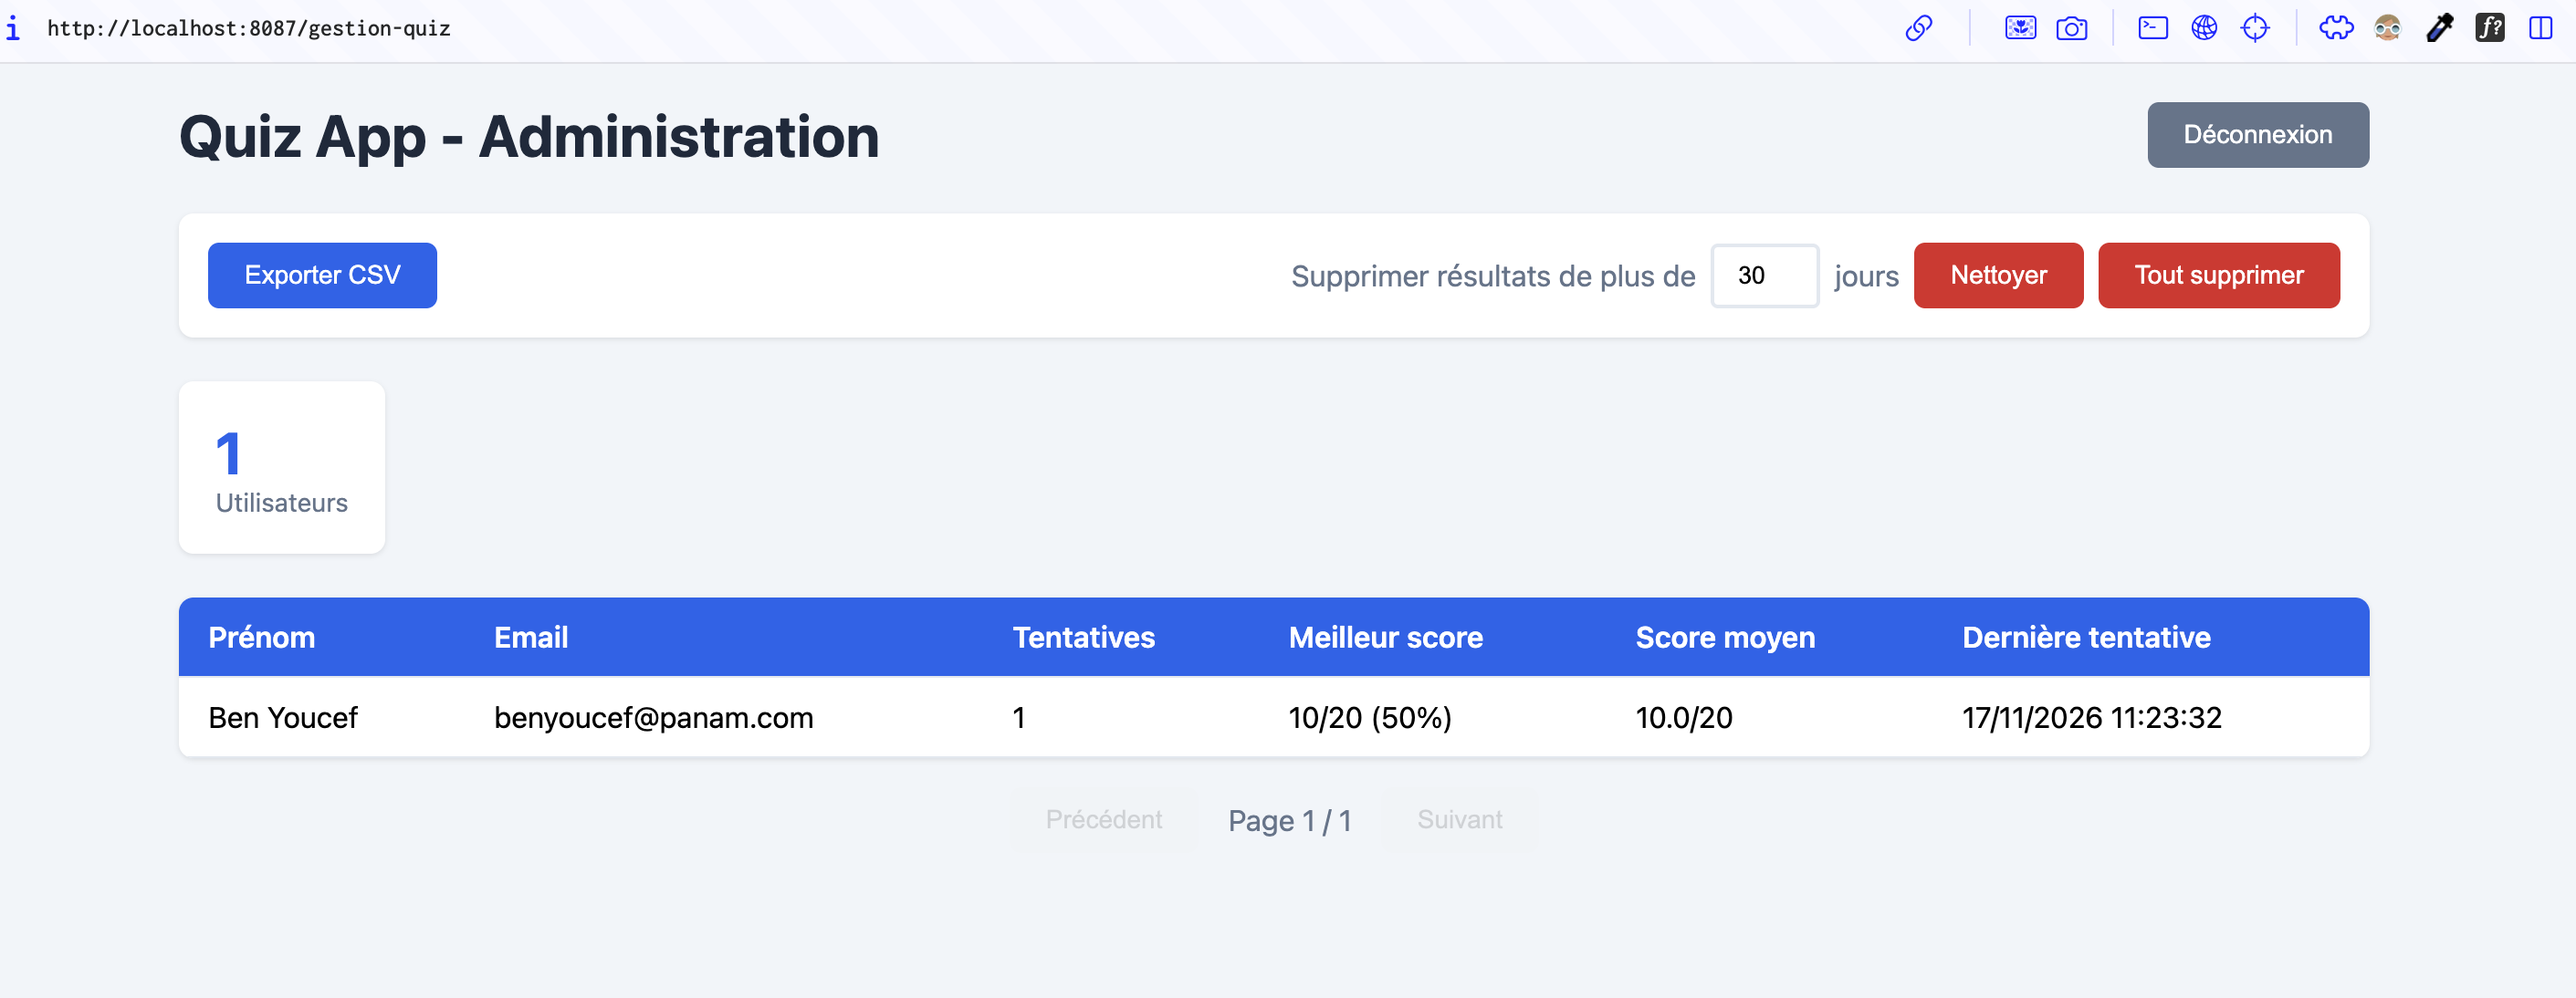
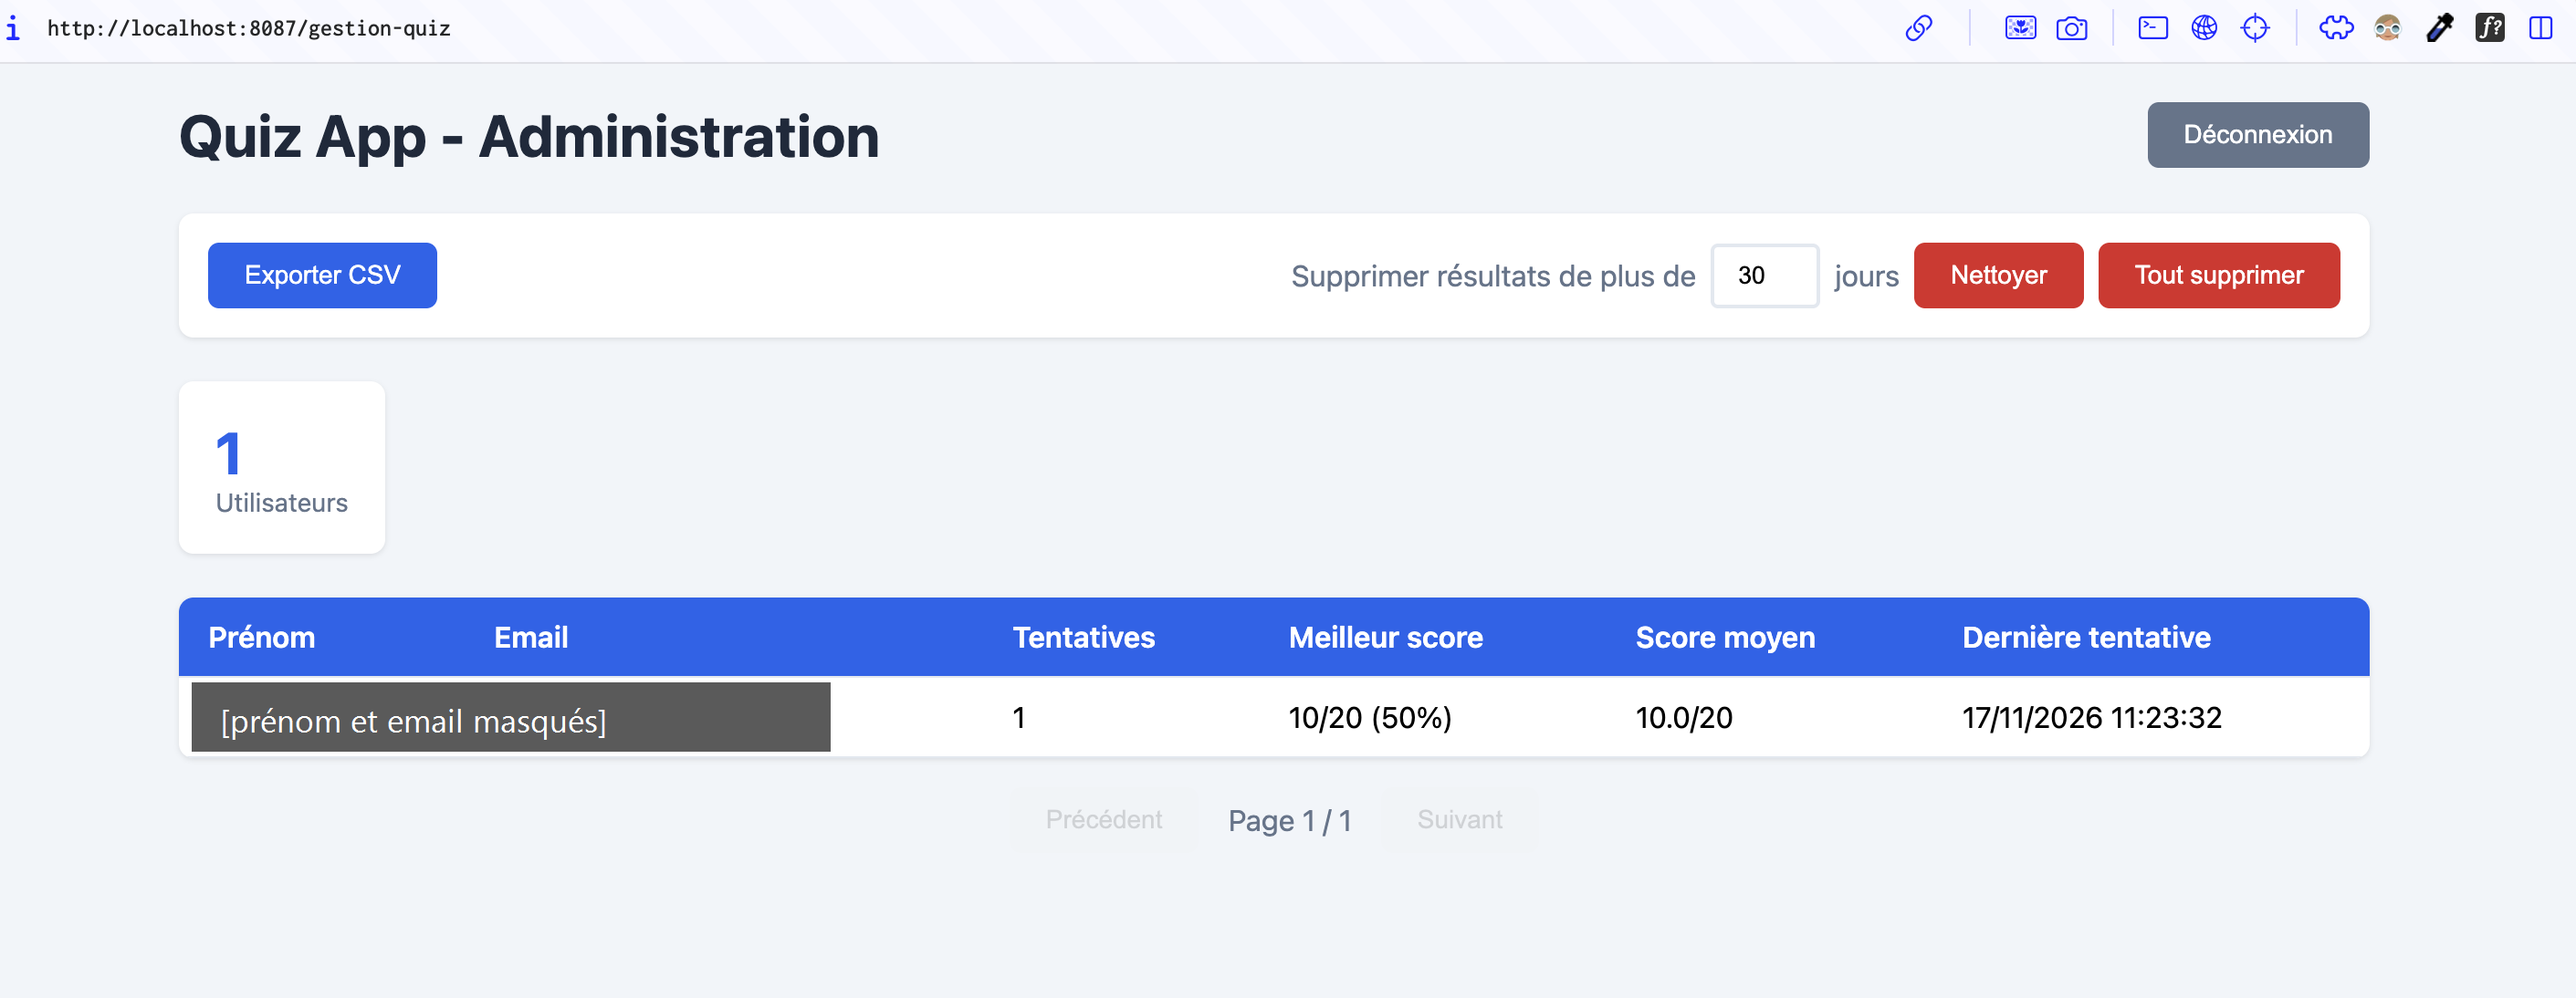
docs: preuves J3 (ACR) et J4 (Container Apps), README groupe
- preuves/J3 : ressources Azure CLI, ACR Basic sans admin, tags = commit, incident de push
- preuves/J4 : apps interne/externe, /health 200, révisions, logs, incident mode Express
- README : lancement local, déploiement Azure, section Usage de l'IA
- preuves/J1/admin-liste.png : prénom et email masqués

Changed region(s): [[0.0624, 0.6837, 0.343, 0.777]]

diff --git a/preuves/J4/README.md b/preuves/J4/README.md
@@ -1,0 +1,132 @@
+# J4 — Frontend et backend dans Azure Container Apps
+
+**URL du frontend :** https://quiz-frontend.whitemeadow-b21d8a24.francecentral.azurecontainerapps.io
+
+## Architecture
+
+```
+Internet ──HTTPS──▶ quiz-frontend (ingress EXTERNE, port 8080, Nginx)
+                        ├─ /, /gestion-quiz  → fichiers statiques
+                        └─ /api/, /health    → proxy_pass ${BACKEND_URL} = http://quiz-backend
+                                                   │  (Envoy, réseau interne de l'environnement)
+                                                   ▼
+                                quiz-backend (ingress INTERNE, port 3007, Node/Express)
+                                                   │
+                                                   └──▶ PostgreSQL : non branché au J4 (J5 : Neon)
+
+Environnement Container Apps : cae-quiz-app (mode WorkloadProfiles, profil Consumption)
+Images tirées depuis acrquizbenyoucefkemia.azurecr.io par identité managée (AcrPull)
+```
+
+## Configuration des applications
+
+```
+$ az containerapp list -g rg-quiz-app --query "[].{app:name, externe:...ingress.external, port:...ingress.targetPort, image:..., registre:...registries[0].identity}" -o table
+App            Externe    Port    Image                                                   Registre
+-------------  ---------  ------  ------------------------------------------------------  ----------
+quiz-backend   False      3007    acrquizbenyoucefkemia.azurecr.io/quiz-backend:d260acc   system
+quiz-frontend  True       8080    acrquizbenyoucefkemia.azurecr.io/quiz-frontend:d260acc  system
+
+$ az containerapp env show -n cae-quiz-app -g rg-quiz-app --query "{mode:properties.environmentMode, region:location}" -o table
+Mode              Region
+----------------  --------------
+WorkloadProfiles  France Central
+```
+
+| Paramètre | Valeur | Justification |
+|---|---|---|
+| Ingress backend | interne | le backend n'a pas à être joignable depuis Internet ; seul le frontend l'appelle |
+| Ingress frontend | externe, HTTPS géré par Azure | seul point d'entrée public |
+| CPU / mémoire | 0,25 vCPU / 0,5 Gi par app | configuration minimale (maîtrise des crédits) |
+| Réplicas | min 0, max 1 | scale-to-zero : pas de facturation de calcul sans trafic |
+| Secrets backend | `jwt-secret`, `admin-password`, `resend-api-key` | stockés comme secrets de la Container App, injectés via `secretref:` |
+
+## Communication frontend → backend
+
+En local (Compose), Nginx joignait `backend:3007`. Ce nom n'existe pas sur Azure. La configuration Nginx est donc devenue un **template** (`nginx/default.conf.template`) :
+
+- l'image nginx exécute `envsubst` au démarrage et remplace `${BACKEND_URL}` ;
+- Compose : `BACKEND_URL=http://backend:3007` ;
+- Container Apps : `BACKEND_URL=http://quiz-backend` (une app joint une autre app du même environnement par son nom, sur le port 80 ; Envoy redirige vers le port cible 3007).
+
+La directive `proxy_set_header Host $host` a été retirée : Envoy aiguille les requêtes selon l'en-tête `Host`, et transmettre l'hôte du frontend enverrait la requête au mauvais service.
+
+## Test de `/health`
+
+```
+$ curl -s -w ' HTTP %{http_code}\n' https://quiz-frontend.whitemeadow-b21d8a24.francecentral.azurecontainerapps.io/health
+{"status":"ok"} HTTP 200
+
+$ curl ... /             -> 200
+$ curl ... /gestion-quiz -> 200
+```
+
+La requête traverse le frontend Nginx puis le backend : la réponse `{"status":"ok"}` est produite par `backend/server.js`. Cette route ne fait aucune requête à PostgreSQL : elle prouve que le serveur démarre et répond, **pas** que la base est disponible.
+
+**Démarrage sans base :** le backend démarre sans `DATABASE_URL`, car `pg.Pool` ne se connecte qu'à la première requête SQL. Une clé Resend factice est fournie, car `new Resend(undefined)` fait planter le module au démarrage (diagnostic du J1).
+
+**Premier appel lent :** lors d'un test à 13:46 UTC, le premier appel a répondu en 25,1 s, le suivant en 0,4 s. Le premier appel du script de déploiement a lui aussi dépassé 20 s avant de réussir à la tentative suivante. Le script réessaie donc jusqu'à 12 fois.
+
+## Backend non exposé
+
+```
+$ curl -s -o /dev/null -w '%{http_code}\n' https://quiz-backend.internal.whitemeadow-b21d8a24.francecentral.azurecontainerapps.io/health
+404
+```
+
+L'adresse interne du backend n'est pas joignable depuis Internet.
+
+## Révisions
+
+Après le premier déploiement, puis après relance de `deploy.sh` (tâche de mise à jour) :
+
+```
+$ az containerapp revision list -n quiz-backend -g rg-quiz-app --all -o table
+Rev                                Active    Sante    Image                                                  Cree
+quiz-backend--ekzjgko              False     Healthy  mcr.microsoft.com/k8se/quickstart:latest               13:15:17
+quiz-backend--0000001              False     Healthy  acrquizbenyoucefkemia.azurecr.io/quiz-backend:d260acc  13:15:41
+quiz-backend--rd260acc-1794922777  False     Healthy  acrquizbenyoucefkemia.azurecr.io/quiz-backend:d260acc  13:40:11
+quiz-backend--rd260acc-1794923447  True      Healthy  acrquizbenyoucefkemia.azurecr.io/quiz-backend:d260acc  13:51:19
+
+$ az containerapp revision list -n quiz-frontend -g rg-quiz-app -o table
+Rev                                 Active    Replicas    Etat
+quiz-frontend--rd260acc-1794923512  True      1           RunningAtMaxScale
+```
+
+- La révision `quickstart` est l'image provisoire qu'Azure CLI utilise le temps d'attribuer le rôle `AcrPull` à l'identité managée.
+- Chaque relance de `deploy.sh` crée une nouvelle révision nommée `r<commit>-<horodatage>`.
+- Mode `Single` : seule la dernière révision est active et reçoit 100 % du trafic.
+
+## Logs des révisions
+
+```
+$ az containerapp logs show -n quiz-backend -g rg-quiz-app --tail 10
+... stdout F Server running on port 3007
+
+$ az containerapp logs show -n quiz-frontend -g rg-quiz-app --tail 15
+... [notice] 1#1: start worker processes
+```
+
+Aucune erreur `host not found in upstream` côté Nginx : `http://quiz-backend` est bien résolu.
+
+## Sécurité des secrets
+
+Les secrets sont lus dans `.env.azure` (ignoré par Git, droits 600) et ne sont jamais affichés :
+
+```
+JWT_SECRET     dans la sortie de deploy.sh : 0 occurrence | dans az containerapp show : 0
+ADMIN_PASSWORD dans la sortie de deploy.sh : 0 occurrence | dans az containerapp show : 0
+```
+
+## Incident : environnement en mode Express
+
+Premier déploiement :
+
+```
+ERROR: (ExpressRegistrySystemIdentityNotSupported) System-assigned managed identity for container
+registry authentication is not supported for container app 'quiz-backend' on express environments.
+```
+
+- **Cause :** `az containerapp env create` crée désormais par défaut un environnement en mode `Express`, qui n'accepte pas l'identité managée pour tirer les images d'un ACR.
+- **Alternative écartée :** activer le compte admin de l'ACR aurait fonctionné, mais imposait de stocker un mot de passe de registre.
+- **Correction :** création de l'environnement avec `--environment-mode WorkloadProfiles` (profil Consumption facturé à l'usage). Le script vérifie désormais le mode et s'arrête avec un message clair si un environnement Express existe déjà. L'app incomplète et l'environnement Express ont été supprimés, puis le script relancé (commit `d260acc`).

diff --git a/preuves/J3/README.md b/preuves/J3/README.md
@@ -1,0 +1,80 @@
+# J3 — Azure CLI et Azure Container Registry
+
+## Ressources créées avec Azure CLI
+
+Toutes les ressources sont créées par `scripts/deploy.sh` (Azure CLI uniquement, pas de portail).
+
+| Ressource | Nom | Paramètres |
+|---|---|---|
+| Groupe de ressources | `rg-quiz-app` | région `francecentral` |
+| Azure Container Registry | `acrquizbenyoucefkemia` | SKU `Basic`, compte admin **désactivé** |
+
+**Région :** l'abonnement Azure for Students est soumis à la policy « Allowed resource deployment regions » (austriaeast, francecentral, spaincentral, belgiumcentral, switzerlandnorth). `francecentral` est autorisée et propose ACR et Container Apps.
+
+## Commandes
+
+```bash
+az login --use-device-code
+cp scripts/env.azure.example .env.azure   # puis renseigner les secrets (fichier ignoré par Git)
+./scripts/deploy.sh
+```
+
+Étapes J3 du script :
+
+```bash
+az group create --name rg-quiz-app --location francecentral
+az acr create --name acrquizbenyoucefkemia --resource-group rg-quiz-app --sku Basic --admin-enabled false
+az acr login --name acrquizbenyoucefkemia            # jeton Entra ID temporaire, aucun mot de passe
+docker build --pull -t acrquizbenyoucefkemia.azurecr.io/quiz-backend:<sha> ./backend
+docker build --pull -t acrquizbenyoucefkemia.azurecr.io/quiz-frontend:<sha> .
+docker push ...
+```
+
+## Configuration de l'ACR
+
+```
+$ az acr show -n acrquizbenyoucefkemia --query "{sku:sku.name, admin:adminUserEnabled, region:location}" -o table
+Sku    Admin    Region
+-----  -------  -------------
+Basic  False    francecentral
+```
+
+## Images et tags
+
+Le tag d'une image est le **hash court du commit Git** (`git rev-parse --short HEAD`), avec le suffixe `-dirty` si l'arbre de travail contient des modifications non commitées. On sait ainsi exactement quel code tourne dans chaque image ; `latest` n'est jamais utilisé.
+
+```
+$ git rev-parse --short HEAD
+d260acc
+
+$ az acr repository show-tags -n acrquizbenyoucefkemia --repository quiz-backend -o tsv
+d260acc
+df07ddd
+
+$ az acr repository show-tags -n acrquizbenyoucefkemia --repository quiz-frontend -o tsv
+d260acc
+df07ddd
+```
+
+- `df07ddd` : commit `feat(azure): scripts deploy.sh et destroy.sh` (première tentative de déploiement, voir incidents).
+- `d260acc` : commit `fix(azure): environnement Container Apps en mode WorkloadProfiles` (version déployée).
+
+## Accès au registre sans mot de passe
+
+Le compte admin de l'ACR est désactivé. Les Container Apps tirent les images avec leur **identité managée système**, à laquelle Azure attribue le rôle `AcrPull` sur le registre (`--registry-identity system`). Aucun identifiant de registre n'est stocké dans le dépôt, dans les scripts ni dans la configuration des applications.
+
+## Incident : push interrompu
+
+Lors du premier lancement, le push de l'image backend a échoué sur la couche la plus lourde (image de base Node) :
+
+```
+failed commit on ref "layer-sha256:f9480d20...": ... net/http: timeout awaiting response headers
+```
+
+- **Cause :** connexion montante lente ; Docker envoie plusieurs couches en parallèle et la plus grosse a dépassé le délai.
+- **Effet :** grâce à `set -euo pipefail`, le script s'est arrêté immédiatement ; seuls le groupe de ressources et l'ACR existaient.
+- **Résolution :** relance de `deploy.sh`. Le script est idempotent (ressources existantes détectées), le build est en cache et les couches déjà présentes dans l'ACR ne sont pas renvoyées (`Layer already exists`). Si l'erreur persiste, on peut limiter Docker à un envoi à la fois (`"max-concurrent-uploads": 1` dans la configuration du moteur Docker).
+
+## Suppression
+
+`scripts/destroy.sh` supprime le groupe de ressources entier (ACR et images compris) après confirmation par saisie du nom du groupe. Il ne sera lancé qu'après validation des preuves par le formateur, car l'ACR est nécessaire à la CI/CD (J6).

diff --git a/README.md b/README.md
@@ -49,3 +49,55 @@ Lisez les documents dans cet ordre :
 - Versionnez les fichiers de configuration, les scripts et les workflows **que vous produisez**.
 - Ne commitez jamais de mots de passe, URL PostgreSQL contenant des identifiants, clés API, secrets GitHub/GitLab ou fichiers `.env` réels.
 - Une démonstration validée reste acquise même si les ressources cloud sont supprimées ensuite.
+
+---
+
+# Travail du groupe
+
+## Preuves par jalon
+
+| Jalon | Preuves |
+|---|---|
+| J1 — Conteneurisation locale | [preuves/J1](preuves/J1/README.md), [architecture locale](docs/architecture-locale.md) |
+| J3 — Azure CLI et ACR | [preuves/J3](preuves/J3/README.md) |
+| J4 — Azure Container Apps | [preuves/J4](preuves/J4/README.md) |
+
+## Lancement local (Docker Compose)
+
+```bash
+cp .env.example .env      # puis remplacer JWT_SECRET et ADMIN_PASSWORD
+docker compose up -d --build --wait
+```
+
+Application : http://localhost:8087 — administration : http://localhost:8087/gestion-quiz
+
+## Déploiement Azure
+
+**Prérequis :** Azure CLI connecté (`az login`), Docker, Git, abonnement autorisant la région `francecentral`.
+
+```bash
+cp scripts/env.azure.example .env.azure   # renseigner JWT_SECRET, ADMIN_PASSWORD, RESEND_API_KEY
+./scripts/deploy.sh                        # crée ou met à jour toutes les ressources
+```
+
+- `deploy.sh` est idempotent : relancé, il construit des images taguées avec le commit courant, les pousse dans ACR et crée une nouvelle révision des Container Apps.
+- Les paramètres (région, noms, nombre de réplicas) sont surchargeables par variables d'environnement, voir `scripts/env.azure.example`.
+- `.env.azure` est ignoré par Git ; aucun secret n'est écrit dans les scripts.
+
+**Suppression (irréversible) :** `./scripts/destroy.sh` supprime le groupe de ressources entier après confirmation. À lancer uniquement après sauvegarde des preuves et accord du formateur.
+
+## Usage de l'IA
+
+- **Outil :** Claude Code (assistant IA en ligne de commande).
+- **Tâches assistées :**
+  - analyse du code fourni (ports, variables, dépendances, comportement de `/health` et de Resend) ;
+  - adaptation de la configuration Nginx en template (`BACKEND_URL`) ;
+  - rédaction de `scripts/deploy.sh` et `scripts/destroy.sh` ;
+  - diagnostic des incidents de déploiement (timeout de push, environnement Container Apps en mode Express) ;
+  - mise en forme des preuves J3/J4.
+- **Vérifications réalisées :**
+  - stack Compose relancée après chaque modification (conteneurs `healthy`, routes `/`, `/health`, `/gestion-quiz` en 200, persistance après `down`/`up`) ;
+  - scripts vérifiés avec `bash -n`, et test de l'arrêt sur variable manquante ;
+  - après déploiement : tags ACR identiques au commit, ingress interne/externe, `/health` en HTTP 200, backend inaccessible depuis Internet, absence des secrets dans les logs et la configuration Azure, révisions `Healthy` ;
+  - chaque commande et choix technique a été relu et doit pouvoir être expliqué sans IA.
+- **Secrets :** les valeurs de `JWT_SECRET` et `ADMIN_PASSWORD` sont générées localement (`openssl rand`) et n'ont jamais été affichées ni copiées dans les échanges avec l'IA ; les vérifications de fuite ne comptent que des occurrences.
